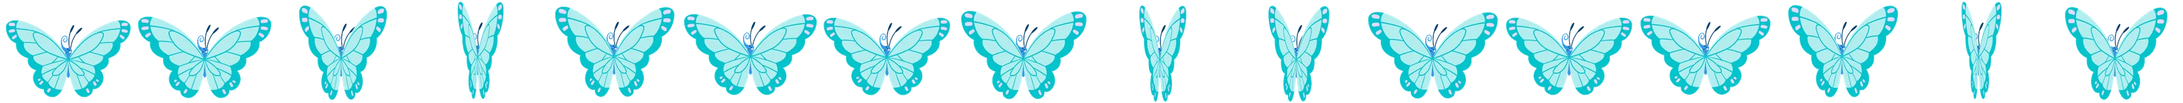
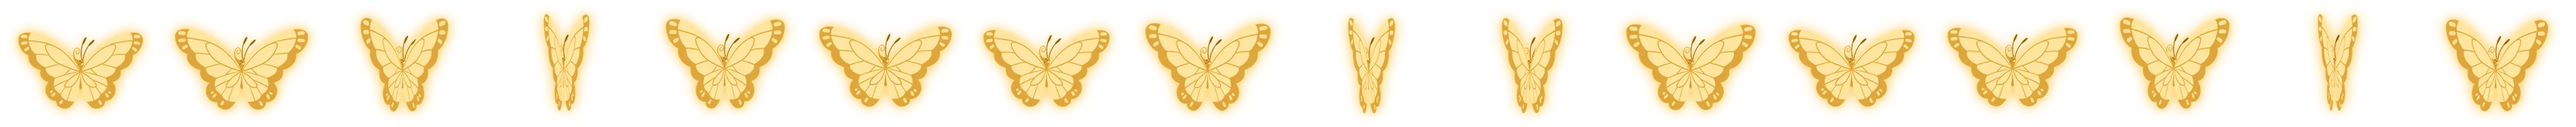
enchance the cover page

diff --git a/public/t/classic-gold.html b/public/t/classic-gold.html
@@ -69,37 +69,79 @@ input,textarea{font:inherit;color:inherit}
 /* cover */
 .cover{position:fixed;top:0;bottom:0;left:var(--cx);width:min(100%,var(--colw));transform:translateX(-50%);z-index:60;overflow:hidden;cursor:pointer}
 .cover[hidden]{display:none!important}
-.cover{perspective:1200px;perspective-origin:50% 50%}
-/* two doors, hinged at the outer edges, that swing inward (away from the guest) onto a bright light */
+.cover{perspective:1300px;perspective-origin:50% 50%}
+/* two doors, hinged at the outer edges, that swing inward (away from the guest) into a blinding light */
 .half{position:absolute;top:0;bottom:0;width:50%;overflow:hidden;backface-visibility:hidden;-webkit-backface-visibility:hidden;will-change:transform,opacity;
-  transition:transform 2.7s cubic-bezier(.55,.04,.25,1),opacity .7s ease}
+  transition:transform 2.6s cubic-bezier(.5,.02,.22,1) .85s}
 .half.l{left:0;transform-origin:0 50%}
 .half.r{right:0;transform-origin:100% 50%}
 .half .art{position:absolute;top:0;bottom:0;width:200%}
 .half.l .art{left:0}
 .half.r .art{right:0}
-.half::after{content:"";position:absolute;inset:0;pointer-events:none;opacity:0;transition:opacity 2.7s ease-in}
-.half.l::after{background:linear-gradient(90deg,rgba(90,60,15,0) 35%,rgba(90,60,15,.6))}
-.half.r::after{background:linear-gradient(270deg,rgba(90,60,15,0) 35%,rgba(90,60,15,.6))}
+/* gold rim on the edge where the doors meet */
+.half::before{content:"";position:absolute;top:0;bottom:0;width:calc(var(--u)*13);z-index:3;pointer-events:none;background:linear-gradient(90deg,#8f6a22,#f3d88e 34%,#fff7d6 50%,#d6aa4c 68%,#86601c);
+  -webkit-mask-image:linear-gradient(#000 calc(var(--u)*215),transparent 0,transparent calc(100% - var(--u)*213),#000 0);mask-image:linear-gradient(#000 calc(var(--u)*215),transparent 0,transparent calc(100% - var(--u)*213),#000 0)}
+.half.l::before{right:0}
+.half.r::before{left:0}
+/* shade + a bright sheen that slides across the door face while it turns */
+.half::after{content:"";position:absolute;inset:0;pointer-events:none;opacity:0;z-index:2;
+  background:linear-gradient(105deg,transparent 30%,rgba(255,255,255,.65) 47%,transparent 62%),linear-gradient(90deg,rgba(80,55,12,0) 30%,rgba(80,55,12,.65));
+  background-size:260% 100%,100% 100%;background-position:130% 0,0 0;transition:opacity 1.6s ease-in .85s,background-position 2.6s cubic-bezier(.4,0,.3,1) .85s}
+.half.r::after{background:linear-gradient(255deg,transparent 30%,rgba(255,255,255,.65) 47%,transparent 62%),linear-gradient(270deg,rgba(80,55,12,0) 30%,rgba(80,55,12,.65));background-size:260% 100%,100% 100%;background-position:-30% 0,0 0}
 .cover.opening .half.l{transform:rotateY(86deg)}
 .cover.opening .half.r{transform:rotateY(-86deg)}
 .cover.opening .half::after{opacity:1}
+.half.l::after{}
+.cover.opening .half.l::after{background-position:-30% 0,0 0}
+.cover.opening .half.r::after{background-position:130% 0,0 0}
 .cover.opening .open-btn{opacity:0;transition:opacity .35s}
-.cover.doors-gone .half{opacity:0}
-/* the light behind the doors: starts blinding, then dims down to show the invitation */
-.light{position:absolute;inset:0;background:radial-gradient(80% 66% at 50% 50%,#ffffff 0%,#fffdf6 42%,#fff4d8 78%,#fdebc0 100%);opacity:1;transition:opacity 2.8s cubic-bezier(.3,.1,.3,1)}
-.cover.dim .light{opacity:0}
+/* what is behind the doors, the beam that bleeds over them, and the white-out that dims down to the page */
+.light{position:absolute;inset:0;background:radial-gradient(80% 66% at 50% 50%,#ffffff 0%,#fffdf6 42%,#fff4d8 78%,#fdebc0 100%)}
+.beam{position:absolute;left:50%;top:-6%;bottom:-6%;width:78%;z-index:3;pointer-events:none;opacity:0;transform:translateX(-50%) scaleX(.012);
+  background:linear-gradient(90deg,rgba(255,236,170,0),rgba(255,244,205,.9) 32%,#fff 50%,rgba(255,244,205,.9) 68%,rgba(255,236,170,0));will-change:transform,opacity}
+.cover.opening .beam{opacity:1;transform:translateX(-50%) scaleX(1);transition:opacity .5s ease-out .85s,transform 2.4s cubic-bezier(.45,0,.2,1) .85s}
+/* a thin line of light (like a light-saber) runs up the seam from the bottom to the top, then the doors open */
+.saber{position:absolute;left:50%;top:0;bottom:0;width:0;z-index:6;pointer-events:none}
+.saber::before{content:"";position:absolute;left:-2px;width:4px;top:0;bottom:0;border-radius:2px;opacity:0;clip-path:inset(100% 0 0 0);
+  background:linear-gradient(90deg,#fff3c2,#fff 50%,#fff3c2);box-shadow:0 0 6px 2px #fff,0 0 16px 6px rgba(255,226,130,.95),0 0 38px 14px rgba(255,200,90,.6)}
+.saber::after{content:"";position:absolute;left:-26px;width:52px;height:52px;bottom:-26px;border-radius:50%;opacity:0;
+  background:radial-gradient(circle,#fff 0 18%,rgba(255,236,160,.9) 36%,rgba(255,200,90,0) 70%)}
+.cover.opening .saber::before{animation:sabline 1.2s cubic-bezier(.45,0,.25,1) forwards}
+.cover.opening .saber::after{animation:sabhead .85s cubic-bezier(.45,0,.25,1) forwards}
+@keyframes sabline{0%{opacity:1;clip-path:inset(100% 0 0 0)}70%{opacity:1;clip-path:inset(0 0 0 0)}100%{opacity:0;clip-path:inset(0 0 0 0)}}
+@keyframes sabhead{0%{opacity:1;bottom:-26px}85%{opacity:1}100%{opacity:0;bottom:calc(100% - 26px)}}
+.flash{position:absolute;inset:0;z-index:4;pointer-events:none;opacity:0;background:radial-gradient(88% 72% at 50% 50%,#fff 0%,#fffdf6 46%,#fff3d4 82%,#fde6b0 100%)}
+.cover.opening .flash{animation:flash 5.2s linear 1.95s forwards}
+@keyframes flash{0%{opacity:0;animation-timing-function:cubic-bezier(.55,0,.85,.45)}24%{opacity:1}34%{opacity:1;animation-timing-function:cubic-bezier(.2,.1,.25,1)}100%{opacity:0}}
+.cover.doors-gone .half,.cover.doors-gone .beam,.cover.doors-gone .light{visibility:hidden}
 .cover.done{pointer-events:none}
-/* butterflies and birds that fly out of the light */
+/* idle: a soft glint of light slides over the cover, and a few stars twinkle on the crest */
+.cv-shine{position:absolute;left:calc(var(--u)*148);right:calc(var(--u)*160);top:calc(var(--u)*215);bottom:calc(var(--u)*213);overflow:hidden;pointer-events:none;border-radius:calc(var(--u)*466) calc(var(--u)*466) 0 0}
+.cv-shine::before{content:"";position:absolute;top:-10%;bottom:-10%;left:0;width:30%;background:linear-gradient(90deg,transparent,rgba(255,255,255,.7),transparent);transform:translateX(-160%) skewX(-18deg);animation:shine 6.5s ease-in-out 1.4s infinite}
+@keyframes shine{0%{transform:translateX(-160%) skewX(-18deg)}34%,100%{transform:translateX(420%) skewX(-18deg)}}
+.tw{position:absolute;width:calc(var(--u)*54);height:calc(var(--u)*54);margin:calc(var(--u)*-27) 0 0 calc(var(--u)*-27);pointer-events:none;opacity:0;
+  background:radial-gradient(circle,#fff 0 10%,rgba(255,226,140,.85) 16%,transparent 58%),linear-gradient(90deg,transparent 46%,rgba(255,240,190,.95) 50%,transparent 54%),linear-gradient(0deg,transparent 46%,rgba(255,240,190,.95) 50%,transparent 54%);animation:twk 3.4s ease-in-out infinite}
+@keyframes twk{0%,100%{opacity:0;transform:scale(.3) rotate(0)}42%{opacity:1;transform:scale(1) rotate(25deg)}72%{opacity:0;transform:scale(.4) rotate(50deg)}}
+.defs{position:absolute;width:0;height:0}
+.tw.t1{left:calc(var(--u)*430);top:calc(var(--u)*470);animation-delay:0s}
+.tw.t2{left:calc(var(--u)*860);top:calc(var(--u)*560);animation-delay:1.1s}
+.tw.t3{left:calc(var(--u)*640);top:calc(var(--u)*400);animation-delay:2.2s}
+.tw.t4{left:calc(var(--u)*540);top:calc(var(--u)*920);animation-delay:.6s}
+.tw.t5{left:calc(var(--u)*790);top:calc(var(--u)*880);animation-delay:1.7s}
+/* golden butterflies, birds, light trails and dust */
 .crit{position:absolute;inset:0;pointer-events:none;z-index:5;overflow:hidden}
 .bf,.bd{position:absolute;left:0;top:0;opacity:0;will-change:transform,opacity}
 .bf{background:url(img/fx/butterfly.webp) 0 0/1600% 100% no-repeat;animation:bfflap .8s steps(16) infinite}
 @keyframes bfflap{from{background-position:0 0}to{background-position:106.667% 0}}
-.bd{fill:#7d5c22;stroke:#7d5c22;stroke-width:1.6;stroke-linejoin:round}
-.bd .up{animation:bdup .46s steps(1) infinite}
-.bd .dn{animation:bddn .46s steps(1) infinite}
+.bd{fill:url(#birdGold);stroke:#c8962f;stroke-width:1.1;stroke-linejoin:round;filter:drop-shadow(0 0 3px rgba(255,214,120,.95)) drop-shadow(0 0 9px rgba(255,196,90,.7))}
+.bd .up{animation:bdup .3s steps(1) infinite}
+.bd .dn{animation:bddn .3s steps(1) infinite}
 @keyframes bdup{0%{opacity:1}50%{opacity:0}}
 @keyframes bddn{0%{opacity:0}50%{opacity:1}}
+.sp{position:absolute;left:0;top:0;border-radius:50%;pointer-events:none;background:radial-gradient(circle,#fffbe6 0%,rgba(255,224,130,.9) 38%,rgba(255,200,90,0) 72%);animation:spark 1s ease-out forwards}
+@keyframes spark{0%{opacity:.95;transform:translate3d(var(--x),var(--y),0) scale(1)}100%{opacity:0;transform:translate3d(calc(var(--x) + var(--dx)),calc(var(--y) + var(--dy)),0) scale(.15)}}
+.dust{position:absolute;border-radius:50%;pointer-events:none;opacity:0;background:radial-gradient(circle,#fffbe8 0%,rgba(255,222,128,.85) 40%,rgba(255,200,90,0) 72%);animation:dust var(--t) ease-in-out var(--d) 1 both}
+@keyframes dust{0%{opacity:0;transform:translate3d(0,0,0) scale(.6)}25%{opacity:var(--o)}60%{opacity:calc(var(--o)*.6)}100%{opacity:0;transform:translate3d(var(--sx),var(--rise),0) scale(1.1)}}
 .cover{--cw:min(100vw,var(--colw));--u:calc(min(var(--cw),calc(var(--vh)*70.94))/1240)} /* one "unit": the cover is drawn on a 1240 x 1748 sheet and scaled to fit */
 .art{position:absolute;overflow:hidden;text-align:center;
   background:radial-gradient(60% 28% at 62% 0%,#e0d4c4 0%,transparent 70%),radial-gradient(45% 30% at 100% 8%,#e2d6d0 0%,transparent 70%),radial-gradient(55% 22% at 0% 100%,#d6c2b3 0%,transparent 72%),radial-gradient(70% 20% at 55% 100%,#e3e0d3 0%,transparent 70%),#ece8e3}
@@ -120,11 +162,12 @@ input,textarea{font:inherit;color:inherit}
 .cv-low{margin:auto 0;display:flex;flex-direction:column;align-items:center;gap:calc(var(--u)*12);width:100%}
 .cv-div{width:calc(var(--u)*480);height:auto;display:block}
 .guest-lbl{font-family:var(--kh-display);font-size:max(12px,calc(var(--u)*52));line-height:1.8;color:var(--gold-deep)}
-.plate{max-width:calc(var(--u)*560);font-family:var(--en);font-size:max(19px,calc(var(--u)*88));font-weight:600;line-height:1.15;letter-spacing:.04em;color:var(--ink);overflow-wrap:anywhere;text-wrap:balance;padding:0 4px}
-.open-btn{display:flex;flex-direction:column;align-items:center;gap:2px;margin-top:calc(var(--u)*14)}
+.plate{max-width:calc(var(--u)*560);font-family:var(--en);font-size:max(19px,calc(var(--u)*88));font-weight:600;line-height:1.15;letter-spacing:.04em;color:var(--gold-deep);background:linear-gradient(180deg,#e9c46e 0%,#c8932f 55%,#a87522 100%);-webkit-background-clip:text;background-clip:text;-webkit-text-fill-color:transparent;overflow-wrap:anywhere;text-wrap:balance;padding:0 4px}
+.open-btn{display:flex;flex-direction:column;align-items:center;gap:2px;margin-top:calc(var(--u)*30);animation:txtpulse 1.9s ease-in-out infinite}
+@keyframes txtpulse{0%,100%{transform:scale(1);opacity:.82;filter:drop-shadow(0 0 0 rgba(220,167,76,0))}50%{transform:scale(1.09);opacity:1;filter:drop-shadow(0 0 7px rgba(232,190,100,.9))}}
 .open-btn .circ{width:max(40px,calc(var(--u)*150));height:max(40px,calc(var(--u)*150));border-radius:50%;border:1px solid var(--gold);display:grid;place-items:center;background:rgba(255,255,255,.85);animation:pulse 2.4s ease-in-out infinite}
 .open-btn svg{width:max(14px,calc(var(--u)*50));height:max(14px,calc(var(--u)*50));fill:var(--gold-deep);margin-left:3px}
-.open-btn .kh{font-family:var(--kh-display);font-size:max(12px,calc(var(--u)*50));line-height:1.8;color:var(--gold-deep)}
+.open-btn .kh{font-family:var(--kh-display);font-size:max(14px,calc(var(--u)*64));line-height:1.8;color:var(--gold-deep)}
 .open-btn .lbl{font-family:var(--en);font-size:max(10px,calc(var(--u)*40));letter-spacing:.22em;text-transform:uppercase;color:var(--muted)}
 @keyframes pulse{0%,100%{box-shadow:0 0 0 5px rgba(220,167,76,.2)}50%{box-shadow:0 0 0 11px rgba(220,167,76,.07)}}
 
@@ -342,8 +385,11 @@ html.menu-open{overflow:hidden}
   .half,.bar,.menu,.menu li,.ham i,.toast{transition-duration:.01s;transition-delay:0s}
   .cover.opening .half.l,.cover.opening .half.r{transform:none}
   .cover.opening .half{opacity:0;transition:opacity .35s}
-  .light{transition:opacity .45s}
-  .open-btn .circ{animation:none}
+  .cv-shine::before,.tw{animation:none}
+  .saber{display:none}
+  .half,.half::before{transition-delay:0s}
+  .cover.opening .flash{animation-duration:.5s;animation-delay:0s}
+  .open-btn{animation:none}
 }
 
 /* drop-down panels (program, wishes): hidden until the guest taps the button */
@@ -457,17 +503,22 @@ set();window.addEventListener('resize',set);window.addEventListener('orientation
         <img class="crest" src="img/crest.png" alt="Wedding crest" width="692" height="808">
         <div class="cover-title goldtext">សិរីមង្គលអាពាហ៍ពិពាហ៍</div>
         <div class="cv-low">
-          <img class="cv-div" src="img/cover/divider-top.webp" alt="" width="480" height="41">
           <div class="guest-lbl">សូមគោរពអញ្ជើញ</div>
+          <img class="cv-div" src="img/cover/divider-top.webp" alt="" width="480" height="41">
           <div class="plate" data-guest>Chenda</div>
           <img class="cv-div" src="img/cover/divider-bottom.webp" alt="" width="480" height="41">
           <button class="open-btn" type="button" aria-label="Open invitation">
-            <span class="circ"><svg viewBox="0 0 24 24" aria-hidden="true"><path d="M6 3.5v17L21 12z"/></svg></span>
             <span class="kh">បើកសំបុត្រ</span>
             <span class="lbl">Open invitation</span>
           </button>
         </div>
       </div>
+      <div class="cv-shine"></div>
+      <i class="tw t1"></i>
+      <i class="tw t2"></i>
+      <i class="tw t3"></i>
+      <i class="tw t4"></i>
+      <i class="tw t5"></i>
     </div>
   </div>
 </template>
@@ -476,7 +527,11 @@ set();window.addEventListener('resize',set);window.addEventListener('orientation
   <div class="light" aria-hidden="true"></div>
   <div class="half l"></div>
   <div class="half r" aria-hidden="true"></div>
+  <div class="beam" aria-hidden="true"></div>
+  <div class="flash" aria-hidden="true"></div>
+  <div class="saber" aria-hidden="true"></div>
   <div class="crit" id="crit" aria-hidden="true"></div>
+  <svg class="defs" width="0" height="0" aria-hidden="true" focusable="false"><defs><linearGradient id="birdGold" x1="0" y1="0" x2="0" y2="1"><stop offset="0" stop-color="#fff0b0"/><stop offset=".55" stop-color="#f1c35a"/><stop offset="1" stop-color="#d79b2c"/></linearGradient></defs></svg>
 </div>
 
 <header class="bar" id="bar">
@@ -899,55 +954,65 @@ set();window.addEventListener('resize',set);window.addEventListener('orientation
   var sfx=null;
   try{sfx=new Audio('img/fx/door-open.mp3');sfx.preload='auto';sfx.volume=.55}catch(e){}
   var BIRD='<svg class="bd" viewBox="0 0 60 30" aria-hidden="true"><g class="up"><path d="M30 17C24 9 15 4 3 5c8 3 17 7 27 12z"/><path d="M30 17C36 9 45 4 57 5c-8 3-17 7-27 12z"/></g><g class="dn"><path d="M30 16C24 14 14 15 3 25c10-3 18-5 27-6z"/><path d="M30 16C36 14 46 15 57 25c-10-3-18-5-27-6z"/></g><ellipse cx="30" cy="17.5" rx="3.2" ry="2.2"/></svg>';
-  /* flight paths, as fractions of the cover: start (the light in the middle), two bends, the end */
+  /* flight paths, as fractions of the cover: start OUTSIDE the cover edge, two bends, the end inside the invitation */
   var BUTTERFLIES=[
-    {d:0,   dur:4200,e:[.10,.12],c1:[.25,.62],c2:[.85,.30],s0:.30,s1:1.0, hue:0},
-    {d:350, dur:4600,e:[.92,.10],c1:[.78,.60],c2:[.12,.38],s0:.28,s1:1.15,hue:-135},
-    {d:700, dur:3800,e:[.28,-.12],c1:[.55,.46],c2:[.18,.22],s0:.30,s1:1.7, hue:150},
-    {d:1000,dur:4800,e:[.98,.52],c1:[.62,.56],c2:[.92,.14],s0:.25,s1:.9,  hue:-135},
-    {d:1500,dur:4400,e:[.02,.60],c1:[.40,.40],c2:[.10,.20],s0:.25,s1:.95, hue:0}
+    {d:0,   dur:4674,b:[-.18,.86],c1:[.20,.30],c2:[.70,.66],e:[.34,.22],s0:.9,s1:1.0},
+    {d:105, dur:5034,b:[1.18,.78],c1:[.82,.30],c2:[.30,.56],e:[.70,.34],s0:.9,s1:1.1},
+    {d:240, dur:4495,b:[.50,1.14],c1:[.10,.70],c2:[.90,.40],e:[.52,.14],s0:.8,s1:1.25},
+    {d:360,dur:4854,b:[-.16,.30],c1:[.40,.10],c2:[.30,.70],e:[.16,.52],s0:.8,s1:.95},
+    {d:510,dur:4674,b:[1.16,.22],c1:[.60,.04],c2:[.80,.74],e:[.88,.44],s0:.8,s1:.95}
   ];
   var BIRDS=[
-    {d:300, dur:3600,e:[.18,.04],c1:[.40,.40],c2:[.20,.20],s0:1,s1:.32},
-    {d:450, dur:3800,e:[.82,.02],c1:[.60,.40],c2:[.80,.18],s0:.9,s1:.30},
-    {d:650, dur:3500,e:[.50,-.06],c1:[.46,.36],c2:[.54,.14],s0:.8,s1:.26},
-    {d:900, dur:3900,e:[.06,.30],c1:[.30,.46],c2:[.10,.38],s0:.8,s1:.28},
-    {d:1100,dur:3700,e:[.95,.28],c1:[.70,.46],c2:[.90,.40],s0:.8,s1:.28},
-    {d:1300,dur:3500,e:[.34,.02],c1:[.44,.38],c2:[.36,.16],s0:.7,s1:.24}
+    {d:45, dur:3775,b:[-.14,.18],c1:[.22,.04],c2:[.34,.34],e:[.20,.12],s0:1,s1:.5},
+    {d:120, dur:3955,b:[1.14,.16],c1:[.78,.02],c2:[.66,.32],e:[.80,.10],s0:1,s1:.5},
+    {d:210, dur:3596,b:[-.14,.52],c1:[.20,.40],c2:[.10,.20],e:[.08,.28],s0:.9,s1:.45},
+    {d:285, dur:3865,b:[1.14,.54],c1:[.80,.44],c2:[.92,.24],e:[.94,.30],s0:.9,s1:.45},
+    {d:375,dur:3775,b:[.30,-.12],c1:[.36,.10],c2:[.44,.22],e:[.40,.06],s0:.8,s1:.4},
+    {d:435,dur:3865,b:[.70,-.12],c1:[.64,.10],c2:[.56,.22],e:[.62,.05],s0:.8,s1:.4}
   ];
   function bez(p0,p1,p2,p3,t){var u=1-t;return u*u*u*p0+3*u*u*t*p1+3*u*t*t*p2+t*t*t*p3}
+  /* a tiny golden spark that fades behind a flyer */
+  function spark(box,x,y,sz){
+    var e=document.createElement('i');e.className='sp';
+    e.style.width=e.style.height=sz+'px';
+    e.style.setProperty('--x',(x-sz/2)+'px');e.style.setProperty('--y',(y-sz/2)+'px');
+    e.style.setProperty('--dx',((Math.random()-.5)*26)+'px');e.style.setProperty('--dy',(8+Math.random()*22)+'px');
+    box.appendChild(e);setTimeout(function(){e.remove()},1050);
+  }
   function fly(box,spec,kind,W,H){
     var el;
     if(kind==='bf'){
       el=document.createElement('i');el.className='bf';
-      var bw=Math.max(58,W*.26);el.style.width=bw+'px';el.style.height=bw*151/200+'px';
-      if(spec.hue)el.style.filter='hue-rotate('+spec.hue+'deg) saturate(1.15)';
-      el.style.animationDuration=(.7+Math.random()*.25)+'s';
+      var bw=Math.max(42,W*.17);el.style.width=bw+'px';el.style.height=bw*187/232+'px';
+      el.style.animationDuration=(.42+Math.random()*.14)+'s';
     }else{
       var tmp=document.createElement('div');tmp.innerHTML=BIRD;el=tmp.firstChild;
-      var bw2=Math.max(46,W*.2);el.style.width=bw2+'px';el.style.height=bw2/2+'px';
+      var bw2=Math.max(50,W*.21);el.style.width=bw2+'px';el.style.height=bw2/2+'px';
       var dly=(Math.random()*.4).toFixed(2)+'s';el.firstChild.style.animationDelay=dly;el.childNodes[1].style.animationDelay=dly;
     }
     box.appendChild(el);
-    var x0=W*.5,y0=H*.5,start=performance.now()+spec.d,px=x0,py=y0,ph=Math.random()*6;
+    var x0=spec.b[0]*W,y0=spec.b[1]*H,start=performance.now()+spec.d,px=x0,py=y0,ph=Math.random()*6,last=0;
     function frame(now){
       var t=(now-start)/spec.dur;
       if(t<0){requestAnimationFrame(frame);return}
       if(t>=1){el.remove();return}
-      var x=bez(x0,spec.c1[0]*W,spec.c2[0]*W,spec.e[0]*W,t),y=bez(y0,spec.c1[1]*H,spec.c2[1]*H,spec.e[1]*H,t);
+      var te=t<.5?2*t*t:1-Math.pow(-2*t+2,2)/2;     // gentle ease so they glide in and settle
+      te=te*.6+t*.4;
+      var x=bez(x0,spec.c1[0]*W,spec.c2[0]*W,spec.e[0]*W,te),y=bez(y0,spec.c1[1]*H,spec.c2[1]*H,spec.e[1]*H,te);
       var dx=x-px,dy=y-py;px=x;py=y;
-      var sc=spec.s0+(spec.s1-spec.s0)*(kind==='bf'?Math.pow(t,.8):t);
+      var sc=spec.s0+(spec.s1-spec.s0)*t;
       var rot,flip='';
       if(kind==='bf'){
-        x+=Math.sin(t*26+ph)*W*.012;y+=Math.cos(t*19+ph)*H*.006;
+        x+=Math.sin(t*30+ph)*W*.012;y+=Math.cos(t*19+ph)*H*.006;
         rot=Math.max(-40,Math.min(40,Math.atan2(dx,-dy)*57.3))*.6+Math.sin(t*22+ph)*8;
       }else{
-        rot=0;
+        rot=Math.max(-18,Math.min(18,Math.atan2(dy,Math.abs(dx)||1)*57.3*(dx<0?-1:1)))*.5;
         flip=dx<0?' scaleX(-1)':'';
         y+=Math.sin(t*18+ph)*H*.004;
       }
       el.style.transform='translate3d('+x+'px,'+y+'px,0) translate(-50%,-50%) rotate('+rot+'deg) scale('+sc+')'+flip;
-      el.style.opacity=Math.min(1,t/.1)*Math.min(1,(1-t)/.22)*(kind==='bf'?1:.8);
+      el.style.opacity=Math.min(1,t/.08)*Math.min(1,(1-t)/.2);
+      if(now-last>(kind==='bf'?70:90)){last=now;spark(box,x,y,(kind==='bf'?5:4)+Math.random()*5)}
       requestAnimationFrame(frame);
     }
     requestAnimationFrame(frame);
@@ -956,6 +1021,14 @@ set();window.addEventListener('resize',set);window.addEventListener('orientation
     var box=$('#crit'),W=box.clientWidth,H=box.clientHeight;
     BUTTERFLIES.forEach(function(s){fly(box,s,'bf',W,H)});
     BIRDS.forEach(function(s){fly(box,s,'bd',W,H)});
+    // floating gold dust drifting upward through the light
+    for(var k=0;k<34;k++){
+      var d=document.createElement('i');d.className='dust';var z=2+Math.random()*5;
+      d.style.cssText='left:'+(Math.random()*100)+'%;top:'+(30+Math.random()*70)+'%;width:'+z+'px;height:'+z+'px';
+      d.style.setProperty('--t',(3+Math.random()*3)+'s');d.style.setProperty('--d',(Math.random()*2.2)+'s');
+      d.style.setProperty('--o',(.5+Math.random()*.5).toFixed(2));d.style.setProperty('--sx',((Math.random()-.5)*60)+'px');d.style.setProperty('--rise',(-60-Math.random()*140)+'px');
+      box.appendChild(d);
+    }
   }
   function openInvite(){
     if(opened)return;opened=true;
@@ -963,15 +1036,14 @@ set();window.addEventListener('resize',set);window.addEventListener('orientation
     if(sfx){try{sfx.currentTime=0;var sp=sfx.play();if(sp&&sp.catch)sp.catch(function(){})}catch(e){}}
     cover.classList.add('opening');
     if(reduce){
-      setTimeout(function(){cover.hidden=true;root.classList.remove('locked');document.body.classList.add('opened')},450);
+      setTimeout(function(){cover.hidden=true;root.classList.remove('locked');document.body.classList.add('opened')},650);
       return;
     }
-    setTimeout(spawnCritters,1000);                               // butterflies and birds come out of the light
-    setTimeout(function(){cover.classList.add('doors-gone')},2500);   // doors are fully open: they fade away
-    setTimeout(function(){cover.classList.add('dim')},2000);          // the light dims down slowly
-    setTimeout(function(){cover.classList.add('done')},3000);         // taps go through to the page
-    setTimeout(function(){root.classList.remove('locked');document.body.classList.add('opened')},3900);
-    setTimeout(function(){cover.hidden=true},8600);                   // everything has flown away
+    setTimeout(function(){cover.classList.add('doors-gone')},3350);   // light is at its brightest: the doors are hidden in it
+    setTimeout(spawnCritters,0);                                   // golden butterflies and birds fly in from outside, as the light dims
+    setTimeout(function(){cover.classList.add('done')},3850);         // taps go through to the page
+    setTimeout(function(){root.classList.remove('locked');document.body.classList.add('opened')},4800);
+    setTimeout(function(){cover.hidden=true},8800);                   // everything has flown away
   }
   cover.addEventListener('click',openInvite);
 
